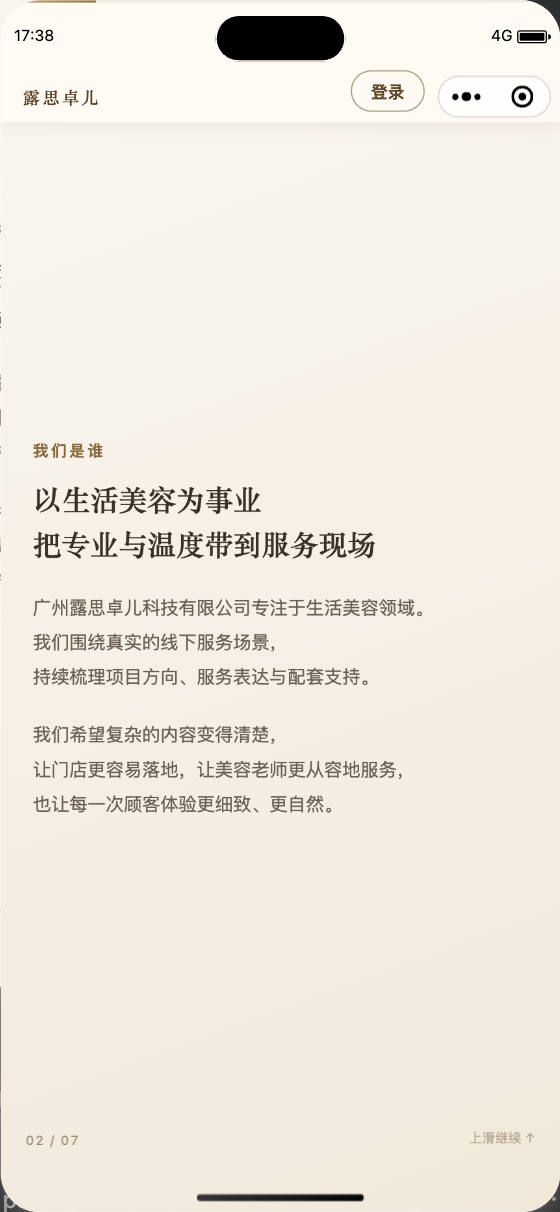
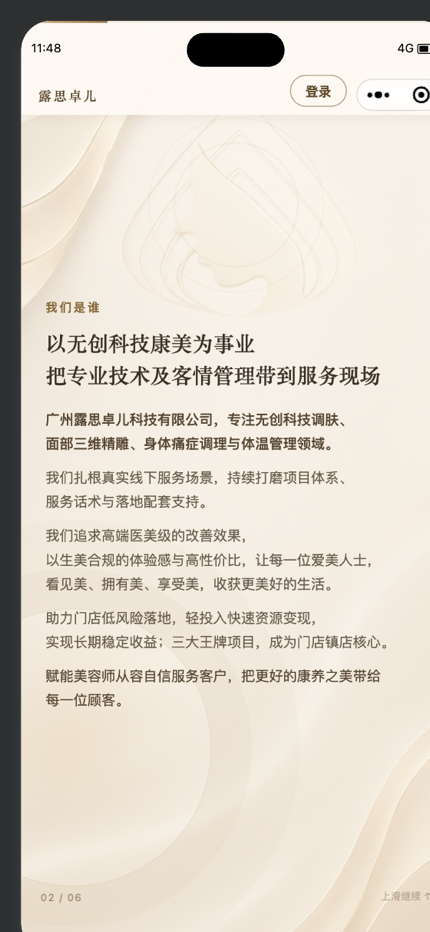
feat(miniprogram): enrich company homepage narrative

diff --git a/tests/mini-program-company-intro-contract.test.js b/tests/mini-program-company-intro-contract.test.js
@@ -39,14 +39,44 @@ test("company introduction is a static public page focused on brand positioning"
   assert.doesNotMatch(js, /services\/(?:api|session)|requireSession|wx\.request|wx\.login/,
     "public company content must not read business data or depend on a staff session");
   for (const phrase of [
-    "广州露思卓儿", "科技有限公司", "生活美容领域", "我们是谁", "品牌理念",
-    "我们在做的事", "与谁同行", "品牌愿景", "把每一次体验做好",
+    "广州露思卓儿", "科技有限公司", "我们是谁", "企业理念", "品牌理念",
+    "我们在做的事", "与谁同行", "与 100\\+门店同行", "企业愿景", "五维核心价值观", "把每一次体验做好",
     "100+", "10000+", "服务门店", "累计服务顾客", "加盟合作"
+  ]) assert.match(wxml, new RegExp(phrase));
+  for (const phrase of [
+    "用爱经营企业，企业才能基业长青！", "让美有温度，让业有方向！",
+    "专注无创科技康美，依托三大王牌科技项目，", "搭建门店售前售后客户管理体系。",
+    "坚守线下体验，以客户体验满意度为核心，", "赋能门店打造专属科美事业部。",
+    "以专业技术与服务文化赋能美业生态，", "依托三大王牌品项，成就客户美好人生。",
+    "成为美业技术服务标杆企业，", "打造高净值人群信赖的美业科技生态平台。"
+  ]) assert.match(wxml, new RegExp(phrase));
+  for (const phrase of [
+    "以无创科技康美为事业", "把专业技术及客情管理带到服务现场",
+    "专注无创科技调肤、", "面部三维精雕", "身体痛症调理与体温管理领域。",
+    "我们扎根真实线下服务场景，持续打磨项目体系、", "服务话术与落地配套支持",
+    "高端医美级的改善效果", "生美合规的体验感与高性价比",
+    "每一位爱美人士", "看见美、拥有美、享受美，收获更美好的生活。",
+    "助力门店低风险落地，", "轻投入快速资源变现", "实现长期稳定收益",
+    "三大王牌项目，成为", "门店镇店核心",
+    "赋能美容师", "从容自信服务客户", "把更好的康养之美带给", "每一位顾客",
+    "向阳而生", "以自强立根，以成长为翼", "真诚致远", "以真心换信任，以纯粹赢长久",
+    "坚韧笃行", "以拼搏为姿，以坚持为魂", "大爱利他", "怀感恩之心，以行动传爱",
+    "守正创新", "以文化为基，以科技赋能"
+  ]) assert.match(wxml, new RegExp(phrase));
+  for (const phrase of [
+    "从清晰正确的方向开始，", "把每一次服务做好",
+    "王牌品项一｜《魔法柔肤》仪：", "无创科技调肤，90分钟，焕现肌肤白、透、亮、润、紧。",
+    "王牌品项二｜《海洋之蕴》三维精雕：", "分层对抗肌肤衰老，作用胶原、肌肉、筋膜，提拉收紧，重塑年轻轮廓。",
+    "王牌品项三｜《露思康辰》E脉通：", "专注身体痛症调理、体温管理，调理身体亚健康。",
+    "免费帮门店搭建专属科美事业部，赋能美容师，专业从容地解决客户的美与亚健康需求。",
+    "在持续沟通与真实服务中共同成长，让专业沉淀成稳定、值得信赖的体验。"
   ]) assert.match(wxml, new RegExp(phrase));
   for (const project of ["海洋之蕴", "魔法柔肤", "露思康辰"]) assert.match(wxml, new RegExp(project));
   for (const phone of ["181 7942 2788", "181 6078 9986"]) assert.match(wxml, new RegExp(phone));
   assert.match(wxml, /<image class="hero-background" src="\/images\/login\/lusizhuoer-login-bg-v4\.jpg" mode="aspectFill"/,
     "the first company page must reuse the confirmed Lusizhuoer logo artwork");
+  assert.equal((wxml.match(/src="\/images\/login\/lusizhuoer-login-bg-v4\.jpg"/g) || []).length, 6,
+    "the confirmed Lusizhuoer logo artwork must remain visible as a background element on every company page");
   for (const systemCopy of ["内部系统", "数据填报", "数据协同", "在线购买", "支付或交易", "小程序服务边界"]) {
     assert.ok(!wxml.includes(systemCopy), `company promotion must not foreground ${systemCopy}`);
   }
@@ -55,8 +85,8 @@ test("company introduction is a static public page focused on brand positioning"
   }
   assert.match(wxml, /class="company-topbar[^"]*"[\s\S]*class="topbar-login"[^>]*bindtap="openLogin"[\s\S]*>登录<\/button>/,
     "the separate staff login must be available from the upper-right company navigation");
-  assert.match(wxml, /class="hero-lead[^"]*"[\s\S]*class="hero-login[^"]*"[^>]*bindtap="openLogin"/,
-    "the opening page login must sit directly beneath the company introduction");
+  assert.match(wxml, /class="hero-title[^"]*"[\s\S]*class="hero-philosophy[^"]*"[\s\S]*企业简介[\s\S]*企业使命[\s\S]*企业愿景[\s\S]*class="hero-login[^"]*"[^>]*bindtap="openLogin"/,
+    "the first page must show the complete official company overview before its login action");
   assert.match(wxml, /wx:if="\{\{currentSlide > 0\}\}" class="topbar-login"/,
     "the top-right login must remain available after the opening page without crowding its logo composition");
   assert.match(wxml, /<swiper class="company-swiper" vertical="true"[\s\S]*bindchange="onSlideChange">/,
@@ -85,12 +115,16 @@ test("company introduction is a static public page focused on brand positioning"
     "the login control must be visible beside the native capsule without becoming a large primary action");
   assert.match(wxss, /\.hero-copy\s*\{[^}]*text-align:\s*center;/s,
     "the opening company statement must sit in the visual center instead of collecting at the bottom");
-  assert.match(wxss, /\.hero-login\s*\{[^}]*margin:\s*30rpx auto 0;[^}]*border-radius:\s*29rpx;/s,
+  assert.match(wxss, /\.hero-info-copy\s*\{[^}]*font-size:\s*26rpx;[^}]*line-height:\s*1\.6;/s,
+    "the full first-page company overview must remain comfortably readable on a phone");
+  assert.match(wxss, /\.hero-login\s*\{[^}]*margin:\s*26rpx auto 0;[^}]*border-radius:\s*32rpx;/s,
     "the opening login must remain a small centered action rather than a large primary panel");
   assert.match(wxml, /wx:if="\{\{currentSlide > 0\}\}" class="topbar-brand"/,
     "the first page must not repeat the brand name above the full company title");
   assert.match(wxml, /class="hero-title[^\"]*">广州露思卓儿科技有限公司<\/text>/);
-  assert.match(wxml, /class="hero-statement[^\"]*">让专业有温度，让美好被认真对待<\/text>/);
+  assert.match(wxml, /class="hero-statement[^\"]*">让美有温度，让业有方向！<\/text>/);
+  assert.doesNotMatch(wxml, /让专业有温度，让美好被认真对待/,
+    "the retired opening slogan must not conflict with the confirmed enterprise philosophy");
   assert.doesNotMatch(wxml, />公司主页<\/text>/,
     "the retired company-home eyebrow must not return to the first page");
   assert.match(wxss, /\.hero-title\s*\{[^}]*white-space:\s*nowrap;/s);
@@ -99,11 +133,14 @@ test("company introduction is a static public page focused on brand positioning"
   assert.match(wxml, /class="slide-footer"[\s\S]*class="slide-number"[\s\S]*class="swipe-guide"/);
   assert.doesNotMatch(wxml, /slide-dots|slide-dot/,
     "page status must stay in the quiet footer instead of interrupting the right edge of the composition");
-  assert.match(wxml, /class="section-body balanced-copy[^"]*"[\s\S]*class="vision-copy balanced-copy[^"]*"[\s\S]*class="service-lead balanced-copy[^"]*"/,
-    "long mobile copy must use deliberate semantic line groups rather than leaving orphaned final characters");
-  assert.match(wxss, /\.title-lines text, \.balanced-copy text, \.belief-copy text \{ display: block; \}[\s\S]*@media \(min-width: 700px\)[\s\S]*\.balanced-copy text \{ display: inline; \}/,
+  assert.match(wxml, /class="about-body"[\s\S]*class="about-paragraph[^\"]*"[\s\S]*class="core-value-list"[\s\S]*class="service-lead balanced-copy[^"]*"/,
+    "long mobile copy must use deliberate editorial paragraphs and compact value rows rather than leaving orphaned final characters");
+  assert.match(wxss, /\.title-lines text, \.balanced-copy text, \.belief-copy text, \.hero-info-copy text \{ display: block; \}[\s\S]*@media \(min-width: 700px\)[\s\S]*\.balanced-copy text \{ display: inline; \}/,
     "deliberate phone line breaks must return to natural flow on tablet widths");
   assert.match(wxss, /\.slide-animate\s*\{[^}]*opacity:\s*0;[^}]*translateY\(30rpx\);/s);
+  assert.match(wxss, /\.slide-background-art\s*\{[^}]*opacity:\s*\.34;[^}]*pointer-events:\s*none;/s);
+  assert.match(wxss, /@keyframes logo-float[\s\S]*@keyframes glow-drift/,
+    "subsequent pages must add restrained moving champagne-gold background effects without blocking content");
   assert.match(wxss, /\.is-active \.delay-1[\s\S]*\.is-active \.delay-5[\s\S]*@keyframes text-rise/,
     "each settled page must animate headings, copy, and detail rows in a deliberate sequence");
   assert.match(wxss, /@media \(min-width: 700px\) \{/,

diff --git a/PROJECT_CONTEXT.md b/PROJECT_CONTEXT.md
@@ -1,6 +1,6 @@
 # 露思卓儿业务系统：项目规则与跨设备交接基线
 
-> 最后整理：2026-09-15
+> 最后整理：2026-09-16
 >
 > 适用仓库：`https://github.com/Zhixiang010607/lusizhuoer`
 >
@@ -470,11 +470,13 @@
 
 ## 22. 响应式 UI 最终要求
 
-- 2026-09-15 最新公司主页顺序补充：六个竖向全屏分页固定调整为“首屏 → 我们是谁 → 品牌理念／品牌愿景 → 我们在做的事 → 与谁同行 → 项目延伸”。品牌理念提前到第三页，先建立公司价值表达，再承接具体行动、服务规模、加盟合作与项目入口；本条取代本节后文仍将品牌理念列在“与谁同行”之后的旧顺序，页面数量、文案、登录入口、加盟联系方式、项目入口及权限边界不变。
+- 2026-09-16 最新公司主页后续分页：第四页“我们在做的事”固定使用用户确认的完整原文，标题为“从清晰正确的方向开始，把每一次服务做好”；“01 项目体系”依次列出《魔法柔肤》仪、《海洋之蕴》三维精雕和《露思康辰》E脉通及用户提供的对应说明，“02 门店支持”和“03 长期陪伴”同样使用本轮原文，不再显示此前的概括性三行说明。用户对公司页原文作出的“不改写”决定同样适用于第四页的效果、痛症和亚健康表述，取代此前一般性宣传限制在该公司页段落上的适用；三个独立项目介绍页仍继续遵守生活美容合规表达规则。第五页标题固定为“与 100+门店同行／把每一次体验做好”，继续在同一页显示两组服务数字、加盟说明与两个乐总电话。所有六页都必须可见同一套金色水滴／侧脸 Logo 视觉：第一页保留完整高对比背景，第二至第六页使用同一原图的浅色全屏水印，并叠加不阻塞内容与点击的香槟金渐变光环、轻微缩放和缓慢漂移动效；不得改成深色、高频闪烁或重新绘制另一套 Logo。减少动态效果偏好下须停用这些背景动画并完整显示静态内容。本条取代第四页旧的概括性“项目体系／门店支持／长期陪伴”正文以及“只有首屏出现 Logo”的视觉状态，不改变六页顺序、项目跳转、加盟号码、登录或权限。
+- 2026-09-16 最新公司主页文案：第一页必须直接完整显示用户确认的公司全称、企业理念、企业简介、企业使命和企业愿景。固定文字为“用爱经营企业，企业才能基业长青！／让美有温度，让业有方向！”、“专注无创科技康美，依托三大王牌科技项目，搭建门店售前售后客户管理体系。坚守线下体验，以客户体验满意度为核心，赋能门店打造专属科美事业部。”、“以专业技术与服务文化赋能美业生态，依托三大王牌品项，成就客户美好人生。”以及“成为美业技术服务标杆企业，打造高净值人群信赖的美业科技生态平台。”。首屏继续保留现有全屏 Logo 背景，以公司名、理念主张和三行轻量信息区形成连续编辑式排版，不拆成卡片网格；登录按钮放在全部企业信息下方，简介／使命／愿景字号不得因内容较多而压得难以阅读。第二页“我们是谁”改为无创科技康美、专业技术及客情管理定位，并必须保留用户提供的原文，包括“身体痛症调理与体温管理”“高端医美级的改善效果”“低风险落地”“快速资源变现”“长期稳定收益”“门店镇店核心”等表述；用户明确要求“不要改”，因此不得自行替换为另一套所谓合规改写。本决定取代同日曾拟采用“身体舒适与温度管理／专业细致体验／稳健落地／可持续服务能力”的改写方案，也取代此前一般性宣传限制在这段用户确认公司原文上的适用；三个独立项目介绍页仍继续遵守生活美容合规表达规则。第三页保留品牌理念，原企业使命／愿景复述改为五维核心价值观“向阳而生、真诚致远、坚韧笃行、大爱利他、守正创新”。旧首屏“让专业有温度，让美好被认真对待”、旧第三页“用专业理解需求／用温度完成服务／用时间建立信任”以及“第三页重复首屏使命／愿景”的方案明确退役。本条只更新公开静态公司文案与排版，不改变六页顺序、登录、加盟、项目入口或后台权限。
+- 2026-09-15 最新公司主页顺序补充（2026-09-16 更新第三页名称）：六个竖向全屏分页固定调整为“首屏 → 我们是谁 → 品牌理念／五维核心价值观 → 我们在做的事 → 与谁同行 → 项目延伸”。品牌理念提前到第三页，先建立公司价值表达，再承接具体行动、服务规模、加盟合作与项目入口；本条取代本节后文仍将品牌理念列在“与谁同行”之后或仍使用“品牌愿景”命名的旧顺序，页面数量、登录入口、加盟联系方式、项目入口及权限边界不变。
 - 2026-09-07 用户新增登录前项目介绍要求：沿用当前配色，在登录页提供三个紧凑项目入口，点开后可上下滚动阅读官网式介绍，提炼资料精华、重新绘制图解并加入随滚动变化的动画。早期独立交互提案保存在 `docs/design/project-intro-v1/`；用户随后明确要在微信开发者工具中看到预览，现已用原生 WXML／WXSS 接入 `pages/project-intro` 独立分包，不能继续将浏览器提案当作原生预览交付。两份 PDF 分别对应“露思康辰—E脉通”和“魔法柔肤—13D柔肤仪”；随后补充的 `Copy of 海洋之蕴.pptx` 对应“海洋之蕴—15D精雕仪”，第三项目待补充占位已退役。公开介绍只使用静态可公开内容，不能读取员工或客户业务数据、要求手机号／人脸授权，或放宽后台页面鉴权。保留既有真实登录与返回能力；登录页隐藏后不得被延迟完成的启动会话校验抢回首页，返回登录仍需遵循原有会话校验。图解随滚动展开，章节可直接点击；短屏使用普通文档流，减少动态效果偏好下图解静态展示，也提供手动关闭动效，没有强制观看动画或等待页。项目间切换替换当前介绍页，避免路由栈不断增长。体验须知按用户后续反馈收在页尾默认折叠入口，点击再展开；正文不堆叠“资料中／以说明书为准”等说明书式文字。必要禁忌和实际注意事项保留在须知内，不转成安全保证。随后用户要求拿掉“本页为概念介绍／图示不代表效果／不作效果保证”等类似字句，正文、图解下方和须知末尾统一删除这类泛化声明，不再重复添加。未核实的治疗功效、安全保证、认证／专利、价格、具体疗程及前后对比不直接搬入对客文案，艺术图不得冒充实际设备或临床效果。资料映射与验收见 `docs/design/project-intro-native/`。此前仅做原生预览的交付范围由用户随后“必须发布、预览版与体验版轮流试”的决定接续；开发版上传、体验版更新、审核与正式发布仍分别核实和记录。
-- 2026-09-15 用户最终决定把小程序启动页直接设为公开公司主页：打开小程序即进入 `pages/company-intro/index`，无需先点击公司介绍卡片；页面采用六个竖向全屏分页，顺序固定为“首屏 → 我们是谁 → 我们在做的事 → 与谁同行 → 品牌理念／品牌愿景 → 项目延伸”。整体使用暖象牙白与浅香槟金的连续渐变，不以大面积深咖色制造突兀分区；重点标题主动安排均衡分行，避免行末只剩一两个字。首屏公司名称与主张必须落在视觉中心，不得沉到页面底部留下失衡的大段上方空白。全屏首屏、阅读进度、首屏轻量视差、背景呼吸、分段渐显及组内错峰入场共同形成克制但可感知的动态体验，不得退回逐个格子或卡片拼接的首页。主页重点介绍广州露思卓儿科技有限公司、生活美容定位、品牌理念、一线服务对象与品牌愿景，三个项目只作为页尾延伸入口。首屏“登录”改为公司介绍正文下方居中的小型描边按钮，不再与微信胶囊挤在右上角；滑到第二页以后，胶囊左侧继续显示中小型登录入口，二者均进入独立 `pages/login/index` 表单。登录页“返回公司主页”必须使用独立前景触控层和完整胶囊点击区，不能被背景或表单层拦截。用户确认公司已服务 `100+` 门店、累计服务 `10000+` 顾客，该规模只在“与谁同行”页作克制的事实展示；“加盟合作”说明与两个加盟联系方式直接合并在该页，模拟电话弹窗、展开收起层和额外跳页均已退役。原独立“加盟咨询”第六页因与这里重复而退役，项目延伸顺延为第六页。加盟咨询公开联系人均为乐总，电话为 `18179422788` 和 `18160789986`，仅允许这两个固定号码通过用户点击唤起系统拨号确认；旧的“公司介绍主卡＋三个项目卡＋页内折叠登录”方案已经退役。公司宣传正文不得解释“内部数据协同”“不提供在线交易”等系统边界，也不得引用无法核实的公众号旧宣传、医美转型口号、医疗级表述、其他规模／排名／认证或保证性功效。公开公司页在技术上仍保持静态，不读取业务数据、不依赖员工会话，也不改变任何后台鉴权。2026-09-15 补充的 `海洋之蕴.pptx`、`13D柔肤仪.pdf` 和 `露思康辰～E脉通.pdf` 仅用于核对页尾项目定位与既有项目介绍；资料中的治疗、疼痛、疾病、抗衰、专利认证、固定效果、价格和保证性表述不得搬入公开文案。公司主页进入主包后，为继续保留微信 2MB 主包限制下至少 200KB 的源码余量，登录后才使用的 `store-detail` 和 `teacher-detail` 调整为普通分包；路由、会话、全局样式和权限契约不变。公开资料核对和页面验收边界见 `docs/design/company-intro-native/validation.md`。
+- 2026-09-15 用户最终决定把小程序启动页直接设为公开公司主页：打开小程序即进入 `pages/company-intro/index`，无需先点击公司介绍卡片；页面采用六个竖向全屏分页，当前顺序以本节最新规则为准，即“首屏 → 我们是谁 → 品牌理念／五维核心价值观 → 我们在做的事 → 与谁同行 → 项目延伸”。整体使用暖象牙白与浅香槟金的连续渐变，不以大面积深咖色制造突兀分区；重点标题主动安排均衡分行，避免行末只剩一两个字。首屏公司名称与主张必须落在视觉中心，不得沉到页面底部留下失衡的大段上方空白。全屏首屏、阅读进度、首屏轻量视差、背景呼吸、分段渐显及组内错峰入场共同形成克制但可感知的动态体验，不得退回逐个格子或卡片拼接的首页。主页重点介绍广州露思卓儿科技有限公司、无创科技康美定位、品牌理念、五维核心价值观与一线服务对象，三个项目只作为页尾延伸入口。首屏“登录”改为公司介绍正文下方居中的小型描边按钮，不再与微信胶囊挤在右上角；滑到第二页以后，胶囊左侧继续显示中小型登录入口，二者均进入独立 `pages/login/index` 表单。登录页“返回公司主页”必须使用独立前景触控层和完整胶囊点击区，不能被背景或表单层拦截。用户确认公司已服务 `100+` 门店、累计服务 `10000+` 顾客，该规模只在“与谁同行”页作克制的事实展示；“加盟合作”说明与两个加盟联系方式直接合并在该页，模拟电话弹窗、展开收起层和额外跳页均已退役。原独立“加盟咨询”第六页因与这里重复而退役，项目延伸顺延为第六页。加盟咨询公开联系人均为乐总，电话为 `18179422788` 和 `18160789986`，仅允许这两个固定号码通过用户点击唤起系统拨号确认；旧的“公司介绍主卡＋三个项目卡＋页内折叠登录”方案已经退役。公司宣传正文不得解释“内部数据协同”“不提供在线交易”等系统边界，也不得引用无法核实的公众号旧宣传、医美转型口号、医疗级表述、其他规模／排名／认证或保证性功效。公开公司页在技术上仍保持静态，不读取业务数据、不依赖员工会话，也不改变任何后台鉴权。2026-09-15 补充的 `海洋之蕴.pptx`、`13D柔肤仪.pdf` 和 `露思康辰～E脉通.pdf` 仅用于核对页尾项目定位与既有项目介绍；资料中的治疗、疼痛、疾病、抗衰、专利认证、固定效果、价格和保证性表述不得搬入公开文案。公司主页进入主包后，为继续保留微信 2MB 主包限制下至少 200KB 的源码余量，登录后才使用的 `store-detail` 和 `teacher-detail` 调整为普通分包；路由、会话、全局样式和权限契约不变。公开资料核对和页面验收边界见 `docs/design/company-intro-native/validation.md`。
 - 2026-09-15 历史全屏分页方案（已由上一条最新六页决定取代）：该方案把连续长页改为原生竖向全屏分页，要求每次上滑完整切换一页、停稳时不跨页露出，并使用顶部阅读进度、分页文字错峰动画和现有 `lusizhuoer-login-bg-v4.jpg` 全屏背景；金色水滴／侧脸 Logo、视觉居中的公司名称与品牌主张、删除“公司主页”装饰标签等视觉决定继续有效。该方案原定的七页结构、独立“加盟咨询”页、右侧页码／圆点和右上角始终显示登录均已退役，现以六页结构、首屏正文下方登录、第二页起右上登录及底部页码为准。
-- 2026-09-15 首屏视觉复核进一步确定：第一页不得在左上角重复“露思卓儿”，公司全称与“让专业有温度，让美好被认真对待”分别保持一行并在 Logo 下方形成单一视觉轴；页码固定在底部左侧，上滑提示固定在底部右侧，原先右侧页码／圆点方案退役。第二页起左上角才显示轻量品牌名，右上角登录始终保留。本条取代上一条中的“右侧页码和圆点”描述。
+- 2026-09-15 首屏视觉复核进一步确定：第一页不得在左上角重复“露思卓儿”，公司全称与当前企业理念主张在 Logo 下方形成单一视觉轴；旧主张“让专业有温度，让美好被认真对待”已由 2026-09-16 正式企业理念取代。页码固定在底部左侧，上滑提示固定在底部右侧，原先右侧页码／圆点方案退役。第二页起左上角才显示轻量品牌名，右上角登录始终保留。本条取代上一条中的“右侧页码和圆点”描述。
 - 2026-09-07 用户补充：项目介绍不使用英文缩写或英文装饰标题。海洋之蕴用“超声／射频／生物电”作为紧凑导航，正文写出“微聚焦超声／聚焦射频／生物电射频”；三个项目章节标题、首屏副标题、正文和下一项目入口均使用中文。设备型号的英文字母不自行扩写成未经资料证实的含义，公开副标题使用“精雕仪／柔肤仪／电磁热护理”等中文描述；原始型号与资料对应关系只在内部溯源文档保留，不更改三个业务项目名称。旧的英文缩写与英文装饰标签展示已退役。用户随后要求内容更完整：补充项目特点、三段护理／技术说明及具体体验关注点，以现有资料为依据，不只延长品牌标语；页尾“返回登录”增大至清晰的全宽按钮，字号 17px、字重 600、最小高度 52px。补充后的中文需重新检查窄屏换行与章节导航边界。用户强调文案合理、读起来顺畅：交付前逐段通读，使用自然中文解释项目，去掉重复空泛措辞与不合语义的比喻，不能只翻译缩写或机械加长文字。
 - 2026-09-07 用户指出介绍文案像在教育顾客：三个项目的正文改用产品介绍口吻，讲清项目定位、资料中有依据的技术构成、护理重点与体验特点。旧的“了解需求／确认方案／持续沟通”、反复要求顾客说明情况或反馈感受的服务指导叙事已退役，不得再用提醒填充介绍篇幅。海洋之蕴突出分层技术与轮廓／肤质侧重；魔法柔肤突出纳秒光、多种护理模式与清促建理念；露思康辰突出电磁热、可调温手柄与六项体验细节。实际必要注意事项继续放在页尾默认折叠的体验须知中。保留完整自然中文，不将资料里的治疗、安全、认证、效果比例或固定疗程承诺写成已核实产品优势。
 - 2026-09-15 用户进一步明确三个公开项目的核心定位并要求统一为合规的生活美容表达。三个首屏分类固定以“生活美容”开头，并直接说明差异：海洋之蕴以轮廓为主线，兼顾肤质与“肤龄观感”；魔法柔肤以肤质、肤色及肌肤外观状态为主线；露思康辰以温度管理和身体舒适体验为主线。公开文案不得把“抗衰／逆龄”“解决皮肤问题”“解决健康／疼痛痛症”作为效果承诺，不得宣称疾病治疗、止痛、免疫、经络或保证性结果。“体温管理”容易被理解为对核心体温或健康功能的干预，公开名称统一收敛为“温度管理”；露思康辰的疼痛、肿胀、麻木等内容只用于折叠体验须知中的就医提示，明确项目不能替代诊疗。原资料中的技术名称只用于客观说明护理组成，不由此推导医学作用。此规则取代此前偏品牌口号、需要读完整页才能分辨项目核心优势的写法；不改变三个项目名称、公开路由、图片、动效、登录或后台权限。

diff --git a/docs/design/company-intro-native/validation.md b/docs/design/company-intro-native/validation.md
@@ -1,14 +1,15 @@
 # 小程序公司主页与独立登录验证
 
-日期：2026-09-15
+日期：2026-09-16
 
 ## 需求落点
 
 - 小程序首个页面为原生 `pages/company-intro/index`；打开小程序直接看到公司主页，不再经过公司介绍卡片。
 - 公司主页使用六个原生竖向全屏分页；每次上滑完整进入下一页，停稳时只显示当前一页，不让上下两页跨页露出。
-- 六页顺序为“首屏 → 我们是谁 → 品牌理念／品牌愿景 → 我们在做的事 → 与谁同行 → 项目延伸”，先说明公司身份与坚持，再承接具体行动、服务规模和项目入口。“与谁同行”使用用户确认的 `100+` 服务门店和 `10000+` 累计服务顾客，不增加排名、行业领先等推导。
-- 第一页将现有 v4 金色水滴／侧脸 LOGO 原图作为全屏背景，公司全称与品牌主张分别保持一行并沿同一中轴排布；首屏不再重复左上角品牌名，抽象圆环和“公司主页”四字装饰标签已经移除。首屏登录放在公司介绍文字下方，使用居中小型描边按钮，不与右上微信胶囊拥挤。
-- 页面使用同色系连续渐变和顶部阅读进度；页码固定在底部左侧，上滑提示固定在底部右侧，不再用右侧圆点切断画面。每页停稳后，标题、正文和细项依次上移渐显；降低动态效果偏好下直接显示静态完整内容。
+- 六页顺序为“首屏 → 我们是谁 → 品牌理念／五维核心价值观 → 我们在做的事 → 与谁同行 → 项目延伸”，先说明公司身份与坚持，再承接具体行动、服务规模和项目入口。“与谁同行”使用用户确认的 `100+` 服务门店和 `10000+` 累计服务顾客，不增加排名、行业领先等推导。
+- 第一页将现有 v4 金色水滴／侧脸 LOGO 原图作为全屏背景，直接完整显示公司全称、企业理念、企业简介、企业使命和企业愿景。公司名与理念主张保持居中，简介／使命／愿景使用三行左标签、右正文的轻量编辑式信息区，不拆成卡片网格；登录放在全部企业信息下方。首屏不重复左上角品牌名，也不恢复抽象圆环或“公司主页”装饰标签。
+- 第二页使用用户最终确认的“我们是谁”完整原文并为关键短语设置整词换行；第三页保留品牌理念，后半段改为“向阳而生、真诚致远、坚韧笃行、大爱利他、守正创新”五维核心价值观；第四页完整展示三个王牌品项、门店支持和长期陪伴，不再使用旧的概括性三行正文。
+- 六页均可见同一 v4 金色水滴／侧脸 LOGO 原图：首屏保持完整高对比背景，第二至第六页采用浅色全屏水印。页面继续使用同色系渐变和顶部阅读进度，并增加纯渐变香槟金光环、背景轻微缩放及缓慢漂移动效；背景层不接收触控。页码固定在底部左侧，上滑提示固定在底部右侧，不再用右侧圆点切断画面。每页停稳后，标题、正文和细项依次上移渐显；降低动态效果偏好下直接显示静态完整内容。
 - 第二页起，右上角“登录”继续进入独立 `pages/login/index`；登录页可返回公司主页，并完整保留密码登录、手机号快捷登录和修改密码。
 - “加盟合作”说明和两个乐总电话直接合并在“与谁同行”页，不使用模拟电话弹窗、展开收起层或额外跳页；原独立加盟咨询页因与这里重复已经删除，项目延伸顺延为第六页。
 - 海洋之蕴、魔法柔肤、露思康辰只在公司主页页尾作为延伸入口，不替代公司介绍主体。
@@ -17,9 +18,9 @@
 
 ## 公司资料与项目资料边界
 
-2026-09-15 对“广州露思卓儿”进行了公开检索：搜狗微信的公众号搜索没有返回可核实的官方认证账号或公司简介原文；精确文章搜索只出现第三方机构在 2022 年发布的旧“医美赛道转型”摘要，不能作为当前公司定位的权威来源，因此未写入小程序。广州市市场监督管理局公开的历史化妆品备案附件可以核对到“广州露思卓儿科技有限公司”主体名称，但该记录不能证明当前规模、资质荣誉或宣传功效，本页也未据此扩写这些内容。
+2026-09-15 对“广州露思卓儿”进行了公开检索：搜狗微信的公众号搜索没有返回可核实的官方认证账号或公司简介原文；精确文章搜索只出现第三方机构在 2022 年发布的旧“医美赛道转型”摘要，不能作为当前公司定位的权威来源，因此未作为本页资料来源。广州市市场监督管理局公开的历史化妆品备案附件可以核对到“广州露思卓儿科技有限公司”主体名称，但该记录不能证明当前规模、资质荣誉或宣传功效，本页也未据此扩写这些内容。2026-09-16，用户直接确认企业理念、简介、使命、愿景、“我们是谁”、五维核心价值观、“我们在做的事”及“与谁同行”为公司主页正式文案，本轮按该授权接入；其中“成为美业技术服务标杆企业”保持愿景语态，不改写为已经取得的行业排名或资质结论。
 
-公司主页正文仅采用用户已经确认的事实：公司专注生活美容领域，围绕线下服务场景陪伴门店与美容老师，并重视专业表达、服务体验和长期信任；截至本轮确认，已服务超过 `100` 家门店、累计服务超过 `10000` 名顾客。主页不把三个项目重复写成大段公司介绍，只在页尾概括其方向。
+公司主页正文采用用户已经确认的公司正式表述和经营事实：首屏完整显示企业理念、简介、使命与愿景；第二页说明公司与门店／美容师支持；第三页显示五维核心价值观；第四页按用户原文列出三个王牌品项；服务规模仍为已服务超过 `100` 家门店、累计服务超过 `10000` 名顾客。页尾只保留三个项目的独立介绍入口。
 
 本轮再次逐页检查用户提供的三份项目资料：
 
@@ -31,9 +32,9 @@
 
 项目详细取舍继续以[项目资料映射](../project-intro-native/content-notes.md)和[生活美容文案验证](../project-intro-native/validation-life-beauty-copy.md)为准。
 
-## 合规表达
+## 公开文案边界
 
-公司主页未使用“抗衰”“逆龄”“治愈”“疗效”“医学级”“医美赛道”“全国领先”“第一”“唯一”等医疗、绝对化或未经核实的宣传词。项目摘要使用“方向”“关注”“体验”等生活美容表达，不宣传疾病治疗、疼痛治疗、健康结果或保证性效果。
+用户明确要求“我们是谁”和“我们在做的事”保持原文、不作改写，因此公司页当前包含“身体痛症调理”“高端医美级的改善效果”“低风险落地”“快速资源变现”“长期稳定收益”“调理身体亚健康”等用户确认表述。本记录不把这些词解释为已经独立核实的医疗功效、收益保证或平台审核结论；正式提交平台审核前仍应由经营主体自行确认宣传依据与可接受风险。三个独立项目介绍页不随之扩张，仍使用“方向”“关注”“体验”等生活美容表达，不增加疾病治疗、疼痛治疗、健康结果或保证性效果。
 
 按用户决定，公司宣传正文不展示“内部数据协同”“不提供在线交易”等系统说明。上述内容可用于平台申诉材料解释业务边界，但不应成为面向浏览者的公司宣传文案。
 
@@ -51,7 +52,7 @@
 
 ## 布局与动态检查
 
-- 手机：六个原生分页均为完整视窗高度并裁切相邻页。首屏使用 v4 LOGO 背景，公司全称与主张各占一行并居中，首屏左上角不重复品牌名；登录小按钮承接在正文下方，第二页起再固定到微信胶囊左侧。“与谁同行”的两组数字、加盟说明和两个联系方式使用同一组分隔线与浅色按钮直接排在正文中，不形成悬浮弹层。重点标题和长正文使用按语义设计的均衡分行，避免行末只剩一两个字。
+- 手机：六个原生分页均为完整视窗高度并裁切相邻页。首屏使用 v4 LOGO 背景，公司全称、两行理念主张及放大后的简介／使命／愿景三行信息在同一页完整显示，首屏左上角不重复品牌名；登录小按钮承接在全部企业信息下方，第二页起再固定到微信胶囊左侧。第二页关键短语按完整语义换行，第三页五条价值观使用紧凑纵向列表，第四页三个项目说明在同一叙事线内完整显示；“与谁同行”的两组数字、加盟说明和两个联系方式使用同一组分隔线与浅色按钮直接排在正文中，不形成悬浮弹层。后五页 Logo 水印位于文字背后，浅色背景和缓慢光环不影响正文对比度。
 - 平板：主体宽度和字号设置物理像素上限，保留留白与长文行宽，不把手机 `rpx` 页面整体放大。
 - 动态：切页时原生分页动画负责整页移动；切换完成后当前页文字按五级延时上移渐显。顶部进度与底部页码精确对应当前页，右下提示只承担上滑引导，不阻塞任何点击。
 - 兼容：短屏断点收紧字号、间距和列表行高；用户偏好减少动态效果时，所有正文直接完整显示。
@@ -60,11 +61,11 @@
 
 - `node --test tests/*.test.js`：329 项全部通过，0 失败。
 - 页面脚本语法检查和 `git diff --check`：通过。
-- 微信开发者工具 `36.6.0`、基础库 `3.17.1`、iPhone 15 Pro Max `430 × 932` 模拟器：六个整页均完成原生渲染检查，停稳时未露出相邻页，正文和交互未被顶部胶囊或底部安全区遮挡；运行期异常为 0。
+- 微信开发者工具 Stable `2.02.2608040`、基础库 `3.17.1`、iPhone 15 Pro Max `430 × 932` 模拟器：六个整页均完成原生渲染检查，停稳时未露出相邻页；首页放大正文、第二页长文、第三页五条价值观、第四页三组项目说明、第五页号码和第六页入口均未被顶部胶囊或底部安全区遮挡。调试控制台清空历史记录后逐页复查，运行期异常为 0。
 - 右上角登录完成真实点击检查，正确进入独立 `pages/login/index`。
 - 首屏正文下方登录入口完成原生位置检查；第 5 页直接显示“加盟合作”与两个加盟联系方式，不显示模拟电话选择弹窗，也不再自动翻到第 6 页。
 - 首屏：[LOGO 背景与单行主标题](screenshots/company-home-top-430.png)
-- 公司叙事：[我们是谁](screenshots/company-home-about-430.png)、[我们在做的事](screenshots/company-home-focus-430.png)、[与谁同行](screenshots/company-home-service-430.png)、[品牌理念／愿景](screenshots/company-home-belief-430.png)
+- 公司叙事：[我们是谁](screenshots/company-home-about-430.png)、[五维核心价值观](screenshots/company-home-belief-430.png)、[我们在做的事](screenshots/company-home-focus-430.png)、[与谁同行](screenshots/company-home-service-430.png)
 - 对外入口：[服务规模与加盟信息](screenshots/company-home-service-430.png)、[项目延伸](screenshots/company-home-projects-430.png)、[独立登录](screenshots/login-430.png)
 
-上述源码已随开发版 `0.2.74` 上传。官方上传客户端五分钟超时后后台继续执行，并于悉尼时间 20:50:20 返回 `progressSuccess`；尚未提交公众平台审核或正式发布。体验版具体版本号和物理手机打开效果未独立回读，详见[0.2.74 发布记录](../../../miniprogram-app/releases/0.2.74.md)。
+此前六页公司主页源码已随开发版 `0.2.74` 上传。2026-09-16 新增的完整企业文案、五维核心价值观、第四页品项正文、全页 Logo 水印和背景动效尚未上传微信开发版、提交公众平台审核或正式发布；当前最后确认上传的开发版仍为 `0.2.74`，详见[0.2.74 发布记录](../../../miniprogram-app/releases/0.2.74.md)。

diff --git a/README.md b/README.md
@@ -1,5 +1,7 @@
 # 门店业务与总部数据系统
 
+2026-09-16 **六页公司主页文案与品牌背景完善（源码待上传）**：第一页直接展示公司全称、企业理念、企业简介、企业使命和企业愿景，简介／使命／愿景字号放大并利用下方留白提高手机阅读性。第二页“我们是谁”使用用户确认的无创科技康美、专业技术及客情管理完整原文，关键词按完整语义换行；第三页保留品牌理念并改为五维核心价值观；第四页完整展示三个王牌品项、门店支持与长期陪伴；第五页固定“与 100+门店同行”及两组服务数字、加盟说明和两个电话。六页均复用同一金色水滴／侧脸 Logo 原图，后五页增加浅色全屏水印、香槟金光环与缓慢背景动效，保持文字和点击优先。登录、六页顺序、项目入口和后台权限不变。当前最后确认上传的开发版仍为 `0.2.74`；本轮新源码尚未上传、未提交审核或正式发布。
+
 2026-09-15 **小程序启动页改为六个竖向全屏公司主页分页（开发版 `0.2.74` 已上传）**：打开小程序即进入公司主页，六页依次为首屏、我们是谁、品牌理念／愿景、我们在做的事、与谁同行和项目延伸；先建立公司价值表达，再承接行动、服务规模与项目入口。每次上滑完整切页，停稳时不跨页显示。首屏复用金色水滴／侧脸 LOGO 全屏背景，公司全称、品牌主张和居中小型登录入口形成同一视觉轴；第二页起右上角继续显示登录。第五页“与谁同行”展示 `100+` 服务门店、`10000+` 累计服务顾客，并把加盟说明与两个乐总电话直接合并在正文中，不使用模拟电话弹窗、展开层或额外跳页。项目延伸为第六页。登录页返回按钮和项目页尾导航均使用独立前景触控层。暖象牙白与浅香槟金贯穿各页，标题、正文与细项按顺序上移渐显；密码登录、手机号快捷登录、修改密码、启动会话校验和后台权限均保留。验证边界见[公司主页与独立登录记录](docs/design/company-intro-native/validation.md)。官方上传客户端五分钟超时后后台继续执行，并于悉尼时间 20:50:20 返回 `progressSuccess`；当前最后确认上传的开发版为 `0.2.74`，尚未提交审核或正式发布，详见[发布记录](miniprogram-app/releases/0.2.74.md)。
 
 2026-09-15 **登录前项目介绍已调整为生活美容表达并精简页尾（开发版 `0.2.74` 已上传）**：三个项目首屏现在直接区分核心方向——海洋之蕴聚焦轮廓与肤龄观感，魔法柔肤聚焦肤质与肤色观感，露思康辰聚焦温度管理与身体舒适体验。公开正文不使用“抗衰／逆龄”“解决皮肤问题”“解决健康／疼痛痛症”或保证性功效；“体温管理”收敛为“温度管理”，疼痛、禁忌及就医提示不再放入公开页。页尾“体验须知”、折叠逻辑和装饰标题已删除，“下一个项目”和“返回公司主页”合并为同一条横向轻量导航，末段留白同步收紧；导航已提到粘性章节层之上，两个区域均完成真实鼠标点击验证，不再被透明动画层拦截。原图片、动效、项目路由、登录和后台权限不变，检查边界见[生活美容文案验证](docs/design/project-intro-native/validation-life-beauty-copy.md)。相关源码已随开发版 `0.2.74` 上传，尚未提交审核或正式发布。

diff --git a/miniprogram-app/README.md b/miniprogram-app/README.md
@@ -1,5 +1,7 @@
 # 露思卓儿移动业务小程序
 
+2026-09-16 **六页公司主页文案与品牌背景完善（源码待上传）**：第一页直接展示公司全称、企业理念、企业简介、企业使命和企业愿景，简介／使命／愿景字号放大并利用下方留白提高手机阅读性。第二页“我们是谁”使用用户确认的无创科技康美、专业技术及客情管理完整原文，关键词按完整语义换行；第三页保留品牌理念并改为五维核心价值观；第四页完整展示三个王牌品项、门店支持与长期陪伴；第五页固定“与 100+门店同行”及两组服务数字、加盟说明和两个电话。六页均复用同一金色水滴／侧脸 Logo 原图，后五页增加浅色全屏水印、香槟金光环与缓慢背景动效，保持文字和点击优先。登录、六页顺序、项目入口和后台权限不变。当前最后确认上传的开发版仍为 `0.2.74`；本轮新源码尚未上传、未提交审核或正式发布。
+
 2026-09-15 **小程序启动页改为六个竖向全屏公司主页分页（开发版 `0.2.74` 已上传）**：打开小程序即进入公司主页，六页依次为首屏、我们是谁、品牌理念／愿景、我们在做的事、与谁同行和项目延伸；先建立公司价值表达，再承接行动、服务规模与项目入口。每次上滑完整切页，停稳时不跨页显示。首屏复用金色水滴／侧脸 LOGO 全屏背景，公司全称、品牌主张和居中小型登录入口形成同一视觉轴；第二页起右上角继续显示登录。第五页“与谁同行”展示 `100+` 服务门店、`10000+` 累计服务顾客，并把加盟说明与两个乐总电话直接合并在正文中，不使用模拟电话弹窗、展开层或额外跳页。项目延伸为第六页。登录页返回按钮和项目页尾导航均使用独立前景触控层。暖象牙白与浅香槟金贯穿各页，标题、正文与细项按顺序上移渐显；密码登录、手机号快捷登录、修改密码、启动会话校验和后台权限均保留。验证边界见[公司主页与独立登录记录](../docs/design/company-intro-native/validation.md)。官方上传客户端五分钟超时后后台继续执行，并于悉尼时间 20:50:20 返回 `progressSuccess`；当前最后确认上传的开发版为 `0.2.74`，尚未提交审核或正式发布，详见[发布记录](releases/0.2.74.md)。
 
 2026-09-15 **登录前项目介绍已调整为生活美容表达并精简页尾（开发版 `0.2.74` 已上传）**：三个项目首屏直接显示不同核心方向——海洋之蕴为轮廓与肤龄观感，魔法柔肤为肤质与肤色观感，露思康辰为温度管理与身体舒适体验。公开正文不使用“抗衰／逆龄”“解决皮肤问题”“解决健康／疼痛痛症”或保证性功效；“体温管理”改为“温度管理”，疼痛、禁忌及就医提示不再进入公开页。页尾“体验须知”、折叠逻辑和装饰标题已删除，“下一个项目”和“返回公司主页”合并为同一条横向轻量导航，末段留白同步收紧；导航已提到粘性章节层之上，两个区域均完成真实鼠标点击验证，不再被透明动画层拦截。原图片、动效、项目路由、登录和后台权限不变，检查边界见[生活美容文案验证](../docs/design/project-intro-native/validation-life-beauty-copy.md)。相关源码已随开发版 `0.2.74` 上传，尚未提交审核或正式发布。
